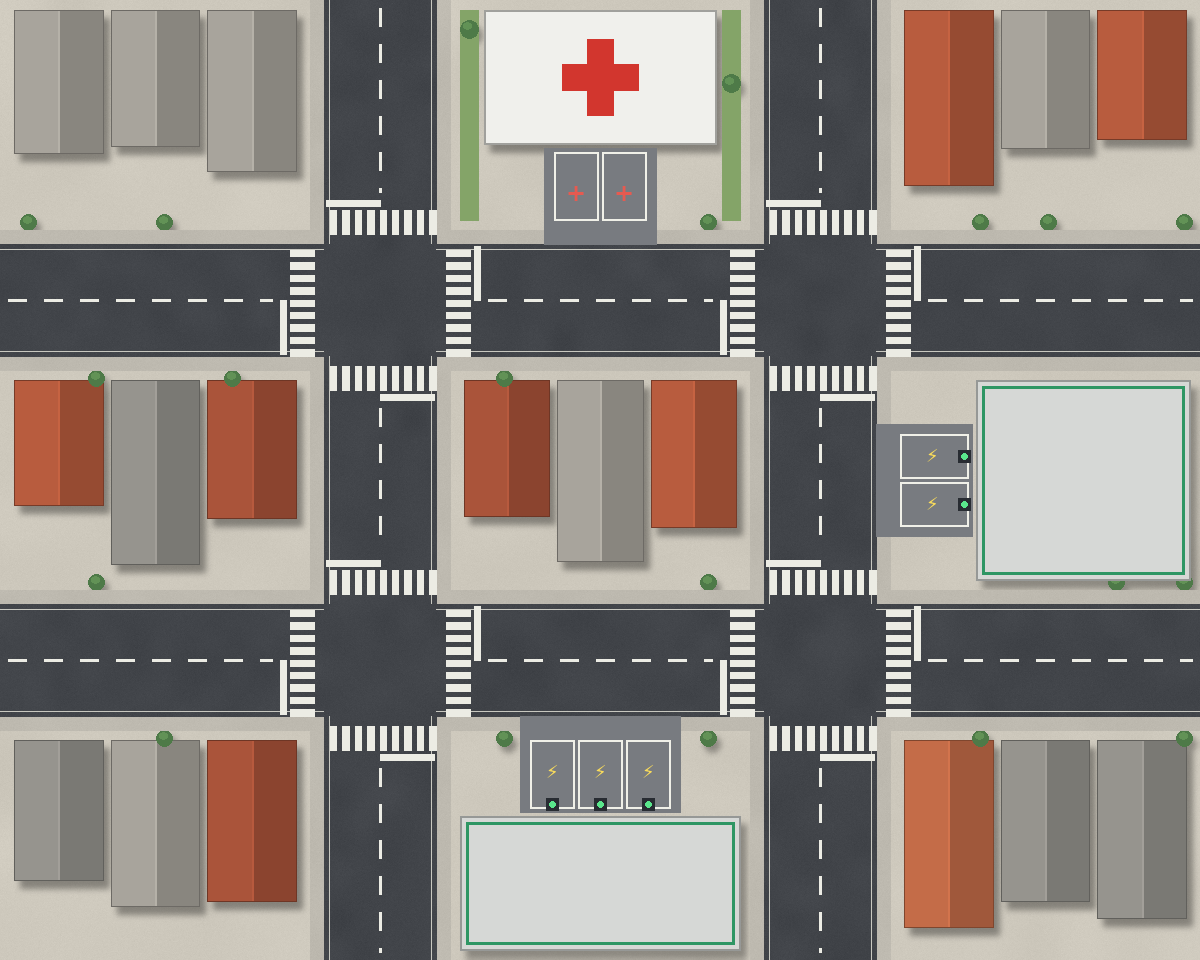
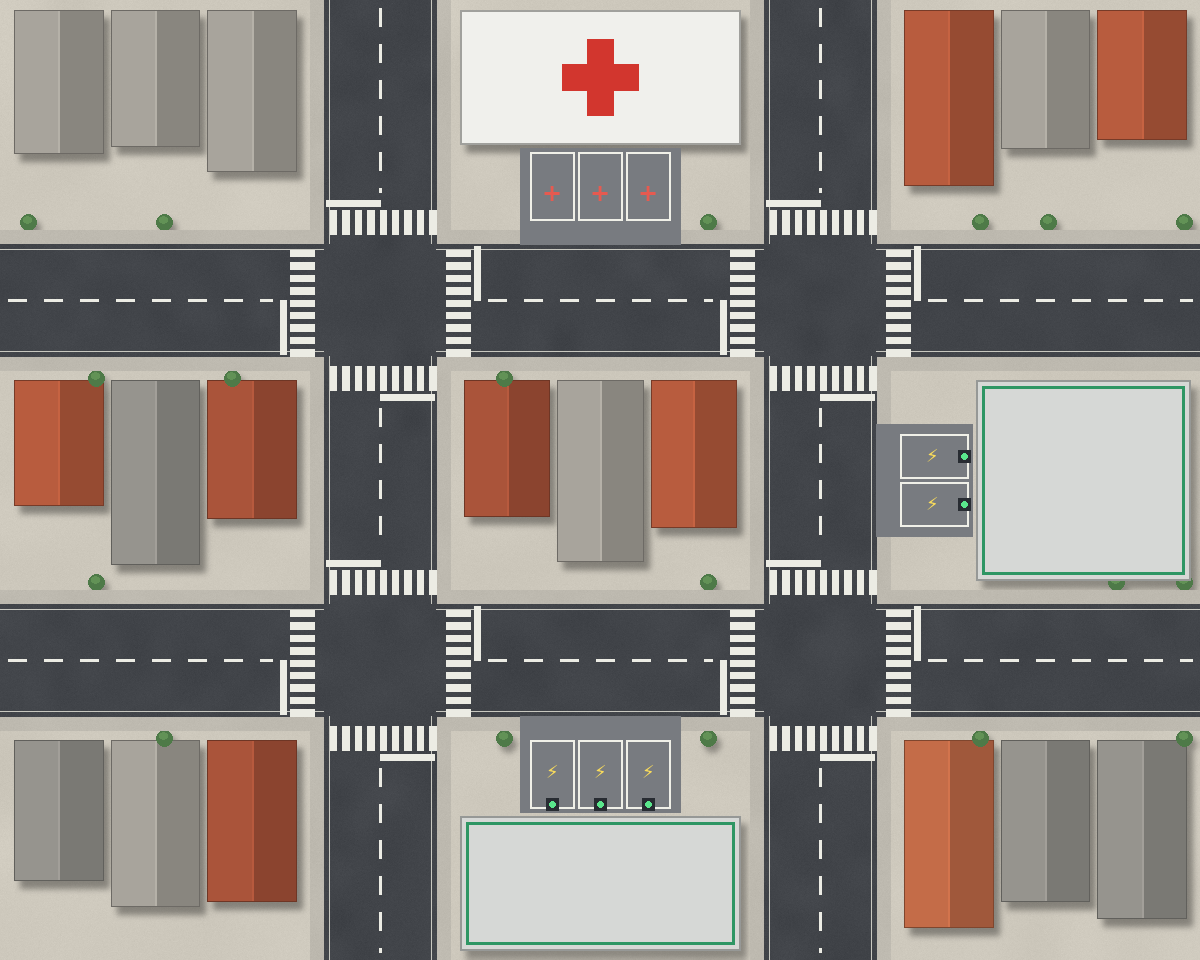
Semáforos só verde/vermelho, correção de passagens no vermelho e do painel

Changed region(s): [[0.4317, 0.0, 0.6475, 0.2812], [0.37, 0.0, 0.4317, 0.25]]

diff --git a/src/scenes/JogoScene.js b/src/scenes/JogoScene.js
@@ -9,8 +9,7 @@ import Som from '../classes/Som.js';
 import { criarBotao, cartao } from '../classes/UI.js';
 
 const TX = '#e8e6df';
-const ESCOLHA_MAX = 15;
-const AMARELO = 1.6;      // duração do amarelo (igual à do Semaforo)   // segundos para escolher o posto (depois segue para o selecionado)
+const ESCOLHA_MAX = 15;   // segundos para escolher o posto (depois segue para o selecionado)
 
 export default class JogoScene extends Phaser.Scene {
     constructor() { super('JogoScene'); }
@@ -106,8 +105,8 @@ export default class JogoScene extends Phaser.Scene {
         return false;
     }
 
-    // Velocidade máxima permitida pelo próximo semáforo da rota: com vermelho (ou amarelo, se ainda
-    // der para parar) o carro trava de forma progressiva até à linha de paragem. Nunca passa o vermelho.
+    // Velocidade máxima permitida pelo próximo semáforo da rota: com vermelho o carro trava de forma
+    // progressiva até à linha de paragem. Só segue quem já estava dentro do cruzamento quando mudou.
     limiteSemaforo(v) {
         if (v.fim || v.estado === 'ESCOLHA') return Infinity;
         const j = v.nodoIdx[Math.min(v.idx, v.nodoIdx.length - 1)] - 1;
@@ -116,27 +115,14 @@ export default class JogoScene extends Phaser.Scene {
         if (!s) return Infinity;
         const dir = this.grafo.direcao(v.ids[j - 1], no), [ux, uy] = VETOR[dir];
         const dist = (s.x - ux * DIST_PARAGEM - v.x) * ux + (s.y - uy * DIST_PARAGEM - v.y) * uy;
-        if (dist < -20 || dist > 130) return Infinity;   // já dentro do cruzamento: segue
-        const eixo = eixoDe(dir);
-        if (v.passa === no) {
-            // decidiu passar no amarelo; se entretanto ficou retido e ainda consegue parar, volta a parar
-            const vermelho = s.fase !== 'AMARELO' && !s.verde(eixo);
-            if (!(vermelho && dist > 2 && (v.v * v.v) / (2 * 700) < dist)) return Infinity;
-            v.passa = null;
-        }
-        if (s.verde(eixo) && !this.conflito(v, s)) return Infinity;
-        // amarelo: se já não consegue parar com segurança, passa (como na vida real)
-        if (s.fase === 'AMARELO' && s.eixo === eixo && !v.bloqueado) {
-            const resta = AMARELO - s.t;
-            if (v.v > 1 && (dist + 34) / v.v < resta) { v.passa = no; return Infinity; }   // atravessa antes do vermelho
-            if (v.v > 20 && dist < (v.v * v.v) / (2 * 700)) { v.passa = no; return Infinity; }          // já não consegue parar
-        }
-        return dist <= 0 ? 0 : Math.sqrt(2 * 300 * dist);
+        if (dist < -20 || dist > 130) return Infinity;   // já dentro do cruzamento (segue) ou ainda longe
+        if (s.verde(eixoDe(dir)) && !this.conflito(v, s)) return Infinity;
+        return dist <= 0 ? 0 : Math.sqrt(2 * 300 * dist);  // vermelho: trava até à linha
     }
 
     cliqueSemaforo(s) {
         if (this.pausado) return;
-        if (this.rec && this.rec.sem === s && outroEixo(s.eixo) === this.rec.eixo && s.fase === 'VERDE') {
+        if (this.rec && this.rec.sem === s && outroEixo(s.eixo) === this.rec.eixo) {
             this.estat.aceites++; this.pontos += 5; this.rec = null; s.destacar(false);
         }
         s.alternar();
@@ -200,7 +186,7 @@ export default class JogoScene extends Phaser.Scene {
         this.btnConfirmar = criarBotao(this, X + 100, 296 + this.postos.length * 38 + 2, 184, 26, 'CONFIRMAR', () => this.confirmarPosto(),
             { cor: COR.terracota, corHover: COR.terracotaEsc, fonte: '12px' }).setDepth(14);
 
-        this.dicaTxt = this.add.text(MAPA_L / 2, 58, '', {
+        this.dicaTxt = this.add.text(MAPA_L / 2, ALTURA - 16, '', {
             fontFamily: FONTE, fontSize: '13px', color: '#fffdf6', fontStyle: 'bold', backgroundColor: '#12151bdd', padding: { x: 10, y: 4 }
         }).setOrigin(0.5).setDepth(30).setAlpha(0);
         this.toastTxt = this.add.text(MAPA_L / 2, 24, '', {
@@ -277,7 +263,7 @@ export default class JogoScene extends Phaser.Scene {
         if (mudou) {
             this.semaforos.forEach(s => s.destacar(false));
             this.rec = nova;
-            if (nova) { nova.sem.destacar(true); if (nova.prioridade === 'ALTA') Som.tocar('alerta_ev', 0.8); }
+            if (nova) { nova.sem.destacar(true, nova.eixo); if (nova.prioridade === 'ALTA') Som.tocar('alerta_ev', 0.8); }
         } else if (nova && this.rec) { this.rec.motivo = nova.motivo; this.rec.prioridade = nova.prioridade; }
         this.mostrarRec();
     }
@@ -287,13 +273,13 @@ export default class JogoScene extends Phaser.Scene {
         this.btnAceitar.setVisible(!!r); this.btnIgnorar.setVisible(!!r);
         if (!r) {
             this.dssAcao.setText('Trânsito fluido');
-            this.dssMotivo.setText(`Sem sugestões. A vigiar ${this.semaforos.length} cruzamentos.`);
+            this.dssMotivo.setText(`Sem sugestões. A vigiar ${this.semaforos.length} cruzamentos.`).setY(this.dssAcao.y + this.dssAcao.height + 2);
             this.dssFaixa.setFillStyle(COR.verde);
             return;
         }
         this.dssFaixa.setFillStyle(r.prioridade === 'ALTA' ? COR.vermelho : r.prioridade === 'MÉDIA' ? COR.amarelo : COR.verde);
-        this.dssAcao.setText(`Muda o semáforo que pisca (${r.eixo === 'H' ? '↔' : '↕'})`);
-        this.dssMotivo.setText(r.motivo);
+        this.dssAcao.setText(`Clica no semáforo assinalado`);
+        this.dssMotivo.setText(r.motivo).setY(this.dssAcao.y + this.dssAcao.height + 2);
     }
 
     // ------------------------------------------------------------ custos das rotas (Dijkstra)
@@ -451,7 +437,7 @@ export default class JogoScene extends Phaser.Scene {
             c.setAlpha(1);
             c.fundo.setStrokeStyle(sel ? 3 : 2, sel ? COR.amarelo : COR.papelEscuro);
         });
-        this.postos.forEach(p => this.marcas[p.id].setAlpha(this.previa === p ? 1 : 0.6).setScale(this.previa === p ? 1.15 : 1));
+        this.postos.forEach(p => this.marcas[p.id].setAlpha(this.previa === p ? 1 : 0.8).setScale(this.previa === p ? 1.15 : 1));
     }
 
     escolherPosto(posto, auto = false) {

diff --git a/src/classes/Semaforo.js b/src/classes/Semaforo.js
@@ -1,6 +1,6 @@
 import { COR, FONTE, outroEixo } from './Constantes.js';
 
-// Semáforo de um cruzamento: máquina de estados VERDE -> AMARELO -> VERMELHO_TODOS -> VERDE (eixo trocado).
+// Semáforo de um cruzamento: um eixo tem verde e o outro vermelho; clicar troca de imediato.
 // O eixo 'H' = avenidas horizontais (E/W); o eixo 'V' = verticais (N/S).
 // Visual: barras coloridas nas linhas de paragem, 4 focos nos cantos e um "medalhão" central com setas
 // que mostra qual o eixo com verde. Se o jogador não intervir, o ciclo é automático (duração aleatória).
@@ -11,15 +11,12 @@ export default class Semaforo {
         this.x = x;
         this.y = y;
         this.eixo = Phaser.Math.RND.pick(['H', 'V']); // eixo que tem (ou vai ter) verde
-        this.fase = 'VERDE';
         this.t = 0;
-        this.proximoEixo = null;
         this.tempoVerde = Phaser.Math.FloatBetween(10, 15);
         this.gfx = scene.add.graphics().setDepth(6);
         this.etiqueta = scene.add.text(x, y, '!', { fontFamily: FONTE, fontSize: '16px', color: '#1d1f2b', fontStyle: 'bold', backgroundColor: '#e9b949', padding: { x: 6, y: 2 } })
             .setOrigin(0.5).setDepth(7).setVisible(false);
         this.anel = scene.add.graphics().setDepth(7).setVisible(false);
-        this.anel.lineStyle(4, 0xe9b949, 1).strokeCircle(x - 41, y + 41, 22).strokeCircle(x + 41, y - 41, 22);
         scene.tweens.add({ targets: this.anel, alpha: { from: 1, to: 0.25 }, duration: 420, yoyo: true, repeat: -1 });
         // 2 cabeças de sinal: a horizontal (canto sudoeste) controla a avenida horizontal,
         // a vertical (canto nordeste) controla a rua vertical. Clicar em qualquer uma troca o verde.
@@ -36,70 +33,52 @@ export default class Semaforo {
 
     aoClicar(fn) { this.zonas.forEach(z => z.on('pointerdown', fn)); }
 
-    verde(eixo) { return this.fase === 'VERDE' && this.eixo === eixo; }
+    verde(eixo) { return this.eixo === eixo; }
 
-    // Pedido de verde para um eixo (jogador ou DSS). Devolve true se algo mudou.
+    // Pedido de verde para um eixo (jogador ou DSS): a troca é imediata (só há verde e vermelho).
     pedirVerde(eixo) {
-        if (this.fase === 'VERDE') {
-            if (this.eixo === eixo) { this.t = 0; return false; }
-            this.iniciarTroca();
-            return true;
-        }
-        this.proximoEixo = eixo;   // já em transição: garante que o eixo pedido é o próximo
+        this.t = 0;
+        if (this.eixo === eixo) return false;
+        this.eixo = eixo;
+        this.tempoVerde = Phaser.Math.FloatBetween(10, 15);
+        this.desenhar();
         return true;
     }
 
     alternar() { return this.pedirVerde(outroEixo(this.eixo)); }
 
-    iniciarTroca() {
-        this.proximoEixo = outroEixo(this.eixo);
-        this.fase = 'AMARELO';
-        this.t = 0;
-        this.desenhar();
-    }
-
+    // ciclo automático: se ninguém mexer, troca sozinho ao fim de 10-15 s
     update(dt) {
         this.t += dt;
-        if (this.fase === 'VERDE' && this.t >= this.tempoVerde) this.iniciarTroca();
-        else if (this.fase === 'AMARELO' && this.t >= 1.6) { this.fase = 'VERMELHO_TODOS'; this.t = 0; this.desenhar(); }
-        else if (this.fase === 'VERMELHO_TODOS' && this.t >= 0.8) {
-            this.eixo = this.proximoEixo || outroEixo(this.eixo);
-            this.proximoEixo = null;
-            this.fase = 'VERDE';
-            this.t = 0;
-            this.tempoVerde = Phaser.Math.FloatBetween(10, 15);
-            this.desenhar();
-        }
-    }
-
-    cor(eixo) {
-        if (this.fase === 'VERMELHO_TODOS' || this.eixo !== eixo) return COR.vermelho;
-        return this.fase === 'VERDE' ? COR.verde : COR.amarelo;
+        if (this.t >= this.tempoVerde) this.alternar();
     }
 
     // cabeça de sinal vista de cima: caixa escura com 3 luzes (só a ativa fica acesa), poste e sombra
     desenhar() {
         const g = this.gfx;
         g.clear();
-        const luz = (eixo) => {
-            if (this.fase === 'VERMELHO_TODOS' || this.eixo !== eixo) return 0;
-            return this.fase === 'VERDE' ? 2 : 1;           // 0 vermelho, 1 amarelo, 2 verde
-        };
-        const cores = [0xff4a3d, 0xffc83d, 0x3dff8a];
+        const luz = (eixo) => (this.eixo === eixo ? 1 : 0);   // 0 vermelho, 1 verde
+        const cores = [0xff4a3d, 0x3dff8a];
         this.cabecas.forEach(([px, py, eixo]) => {
             const a = luz(eixo), hz = eixo === 'H';
-            const w = hz ? 32 : 14, h = hz ? 14 : 32;
+            const w = hz ? 24 : 14, h = hz ? 14 : 24;
             if (this.hover) g.lineStyle(2, 0xffffff, 0.9).strokeRoundedRect(px - w / 2 - 3, py - h / 2 - 3, w + 6, h + 6, 6);
             g.fillStyle(0x000000, 0.3).fillRoundedRect(px - w / 2 + 2, py - h / 2 + 3, w, h, 4);
             g.fillStyle(0x15171d, 1).fillRoundedRect(px - w / 2, py - h / 2, w, h, 4);
             g.lineStyle(1, 0x4a4f5c, 1).strokeRoundedRect(px - w / 2, py - h / 2, w, h, 4);
             cores.forEach((cor, i) => {
-                const lx = hz ? px - 10 + i * 10 : px, ly = hz ? py : py - 10 + i * 10, on = a === i;
+                const lx = hz ? px - 5 + i * 10 : px, ly = hz ? py : py - 5 + i * 10, on = a === i;
                 if (on) g.fillStyle(cor, 0.35).fillCircle(lx, ly, 8);
                 g.fillStyle(on ? cor : 0x2c2f38, 1).fillCircle(lx, ly, 3.8);
             });
         });
     }
 
-    destacar(on) { this.anel.setVisible(on); }
+    // destaca (anel amarelo a piscar) a cabeça do eixo que deve passar a verde
+    destacar(on, eixo) {
+        this.anel.clear().setVisible(on);
+        if (!on) return;
+        const [px, py] = this.cabecas.find(c => c[2] === eixo);
+        this.anel.lineStyle(4, 0xe9b949, 1).strokeCircle(px, py, 21);
+    }
 }

diff --git a/src/classes/Grafo.js b/src/classes/Grafo.js
@@ -4,23 +4,23 @@ import { MAPA_L, ALTURA, FAIXA, VETOR } from './Constantes.js';
 // Usado para calcular rotas (Dijkstra) e os pontos de passagem (waypoints) dos veículos.
 export default class Grafo {
     // colunas/linhas: coordenadas das avenidas do nível (a grelha cresce de nível para nível: 2x2, 3x2, 3x3)
-    constructor(COLUNAS, LINHAS) {
+    constructor(colunas, linhas) {
         this.nos = {};
         this.adj = {};
-        LINHAS.forEach((y, r) => COLUNAS.forEach((x, c) => this.addNo(`I${r}${c}`, x, y, 'I')));
-        LINHAS.forEach((y, r) => {
+        linhas.forEach((y, r) => colunas.forEach((x, c) => this.addNo(`I${r}${c}`, x, y, 'I')));
+        linhas.forEach((y, r) => {
             this.addNo(`W${r}`, 0, y, 'B');
             this.addNo(`E${r}`, MAPA_L, y, 'B');
             this.ligar(`W${r}`, `I${r}0`);
-            for (let c = 0; c < COLUNAS.length - 1; c++) this.ligar(`I${r}${c}`, `I${r}${c + 1}`);
-            this.ligar(`I${r}${COLUNAS.length - 1}`, `E${r}`);
+            for (let c = 0; c < colunas.length - 1; c++) this.ligar(`I${r}${c}`, `I${r}${c + 1}`);
+            this.ligar(`I${r}${colunas.length - 1}`, `E${r}`);
         });
-        COLUNAS.forEach((x, c) => {
+        colunas.forEach((x, c) => {
             this.addNo(`N${c}`, x, 0, 'B');
             this.addNo(`S${c}`, x, ALTURA, 'B');
             this.ligar(`N${c}`, `I0${c}`);
-            for (let r = 0; r < LINHAS.length - 1; r++) this.ligar(`I${r}${c}`, `I${r + 1}${c}`);
-            this.ligar(`I${LINHAS.length - 1}${c}`, `S${c}`);
+            for (let r = 0; r < linhas.length - 1; r++) this.ligar(`I${r}${c}`, `I${r + 1}${c}`);
+            this.ligar(`I${linhas.length - 1}${c}`, `S${c}`);
         });
     }
 

diff --git a/src/scenes/MenuScene.js b/src/scenes/MenuScene.js
@@ -25,7 +25,7 @@ export default class MenuScene extends Phaser.Scene {
         this.add.text(LARGURA / 2, 182, 'Smart Traffic Control', { fontFamily: 'Georgia, serif', fontSize: '36px', color: COR.tintaTxt, fontStyle: 'bold' }).setOrigin(0.5);
         this.add.text(LARGURA / 2, 224, 'Controla os semáforos, dá passagem às ambulâncias\ne encontra o melhor posto para os carros elétricos.', { fontFamily: FONTE, fontSize: '14px', color: COR.cinzaTxt, align: 'center' }).setOrigin(0.5);
 
-        criarBotao(this, LARGURA / 2 - 105, 282, 200, 44, 'JOGAR', () => this.scene.start('JogoScene', { nivel: 1, pontos: 0, vidas: 3 }), { cor: COR.verde, corHover: 0x2d8a5e });
+        criarBotao(this, LARGURA / 2 - 105, 282, 200, 44, 'JOGAR', () => this.scene.start('JogoScene', { nivel: 1, pontos: 0 }), { cor: COR.verde, corHover: 0x2d8a5e });
         criarBotao(this, LARGURA / 2 + 105, 282, 200, 44, 'COMO JOGAR', () => this.scene.start('InstrucoesScene'), { cor: COR.papelEscuro, corHover: 0x4a5260 });
 
         const rotulo = (n, v) => `${n}: ${Math.round(v * 100)}%`;

diff --git a/src/scenes/GameOverScene.js b/src/scenes/GameOverScene.js
@@ -38,7 +38,7 @@ export default class GameOverScene extends Phaser.Scene {
             this.add.text(600, y, b, { fontFamily: FONTE, fontSize: '16px', color: COR.tintaTxt, fontStyle: 'bold' }).setOrigin(1, 0);
             this.add.rectangle(LARGURA / 2, y + 27, 400, 1, 0x4a5260).setOrigin(0.5);
         });
-        criarBotao(this, LARGURA / 2 - 100, 408, 190, 44, 'JOGAR OUTRA VEZ', () => this.scene.start('JogoScene', { nivel: 1, pontos: 0, vidas: 3 }), { cor: COR.verde, corHover: 0x2d8a5e, fonte: '16px' });
+        criarBotao(this, LARGURA / 2 - 100, 408, 190, 44, 'JOGAR OUTRA VEZ', () => this.scene.start('JogoScene', { nivel: 1, pontos: 0 }), { cor: COR.verde, corHover: 0x2d8a5e, fonte: '16px' });
         criarBotao(this, LARGURA / 2 + 100, 408, 190, 44, 'MENU', () => this.scene.start('MenuScene'), { cor: COR.papelEscuro, corHover: 0x4a5260, txt: COR.tintaTxt, fonte: '16px' });
     }
 }

diff --git a/src/scenes/InstrucoesScene.js b/src/scenes/InstrucoesScene.js
@@ -27,6 +27,6 @@ export default class InstrucoesScene extends Phaser.Scene {
         this.add.text(LARGURA / 2, 396, '3 níveis: a cidade cresce (2x2, 3x2, 3x3) e há mais missões. O Assistente sugere, tu decides.', { fontFamily: FONTE, fontSize: '12px', color: COR.cinzaTxt }).setOrigin(0.5);
 
         criarBotao(this, LARGURA / 2 - 105, 428, 190, 34, 'VOLTAR', () => this.scene.start('MenuScene'), { cor: COR.papelEscuro, corHover: 0x4a5260, fonte: '15px' });
-        criarBotao(this, LARGURA / 2 + 105, 428, 190, 34, 'JOGAR', () => this.scene.start('JogoScene', { nivel: 1, pontos: 0, vidas: 3 }), { cor: COR.verde, corHover: 0x2d8a5e, fonte: '15px' });
+        criarBotao(this, LARGURA / 2 + 105, 428, 190, 34, 'JOGAR', () => this.scene.start('JogoScene', { nivel: 1, pontos: 0 }), { cor: COR.verde, corHover: 0x2d8a5e, fonte: '15px' });
     }
 }

diff --git a/src/scenes/PreloadScene.js b/src/scenes/PreloadScene.js
@@ -19,8 +19,7 @@ export default class PreloadScene extends Phaser.Scene {
         [1, 2, 3].forEach(n => this.load.image('mapa' + n, `img/mapa${n}.png`));
         this.load.json('niveis', 'data/niveis.json');
         this.load.spritesheet('carros', 'img/carros.png', { frameWidth: 72, frameHeight: 36 });
-                ['coracao', 'raio', 'bateria', 'euro', 'relogio'].forEach(n => this.load.image('ic_' + n, `img/ic_${n}.png`));
-        SONS.forEach(s => this.load.audio(s, [`audio/${s}.ogg`, `audio/${s}.mp3`]));
+                SONS.forEach(s => this.load.audio(s, [`audio/${s}.ogg`, `audio/${s}.mp3`]));
     }
 
     create() {

diff --git a/src/classes/Constantes.js b/src/classes/Constantes.js
@@ -3,10 +3,7 @@ export const LARGURA = 800;
 export const ALTURA = 480;
 export const MAPA_L = 600;              // largura da área do mapa (o resto é o painel)
 
-export const COLUNAS = [110, 300, 490]; // x das 3 avenidas verticais (iguais às da imagem do mapa)
-export const LINHAS = [130, 330];       // y das 2 avenidas horizontais
 export const FAIXA = 14;                // distância do centro da estrada ao centro da faixa
-export const MEIA_ESTRADA = 28;
 export const DIST_PARAGEM = 66;         // distância do centro do cruzamento ao ponto onde os carros param
 
 export const VEL_NORMAL = [58, 72];

diff --git a/src/classes/MotorDSS.js b/src/classes/MotorDSS.js
@@ -33,7 +33,6 @@ export default class MotorDSS {
     static avaliarSemaforos(semaforos, veiculos, ignorados) {
         let melhor = null;
         for (const s of semaforos) {
-            if (s.fase !== 'VERDE') continue;                 // já em transição
             if (ignorados[s.nome] && ignorados[s.nome] > performance.now()) continue;
             const eixoVermelho = outroEixo(s.eixo);
             const a = MotorDSS.medir(s, eixoVermelho, veiculos);   // eixo que está a esperar

diff --git a/src/classes/UI.js b/src/classes/UI.js
@@ -34,8 +34,3 @@ export function cartao(scene, x, y, w, h, opcoes = {}) {
     return g;
 }
 
-export function titulo(scene, x, y, texto, tam = 44, cor = '#fffdf6') {
-    return scene.add.text(x, y, texto, {
-        fontFamily: 'Georgia, "Times New Roman", serif', fontSize: tam + 'px', color: cor, fontStyle: 'bold', stroke: '#2b2d42', strokeThickness: 6
-    }).setOrigin(0.5);
-}

diff --git a/README.md b/README.md
@@ -35,4 +35,4 @@ Os locais são reais (Viana do Castelo): ESE-IPVC, Continente, Leroy Merlin, Ár
 ## Declaração de uso de IA
 Imagens (mapa, carros, ícones) e sons foram gerados por código com assistência de IA (Claude). O código do jogo foi desenvolvido com assistência de IA e deve ser estudado e compreendido pelo autor.
 
-Autor: André Alves Flores (n.º 33117)
+Autor: Rodrigo Miguel Castro Vieira (n.º 33445)
